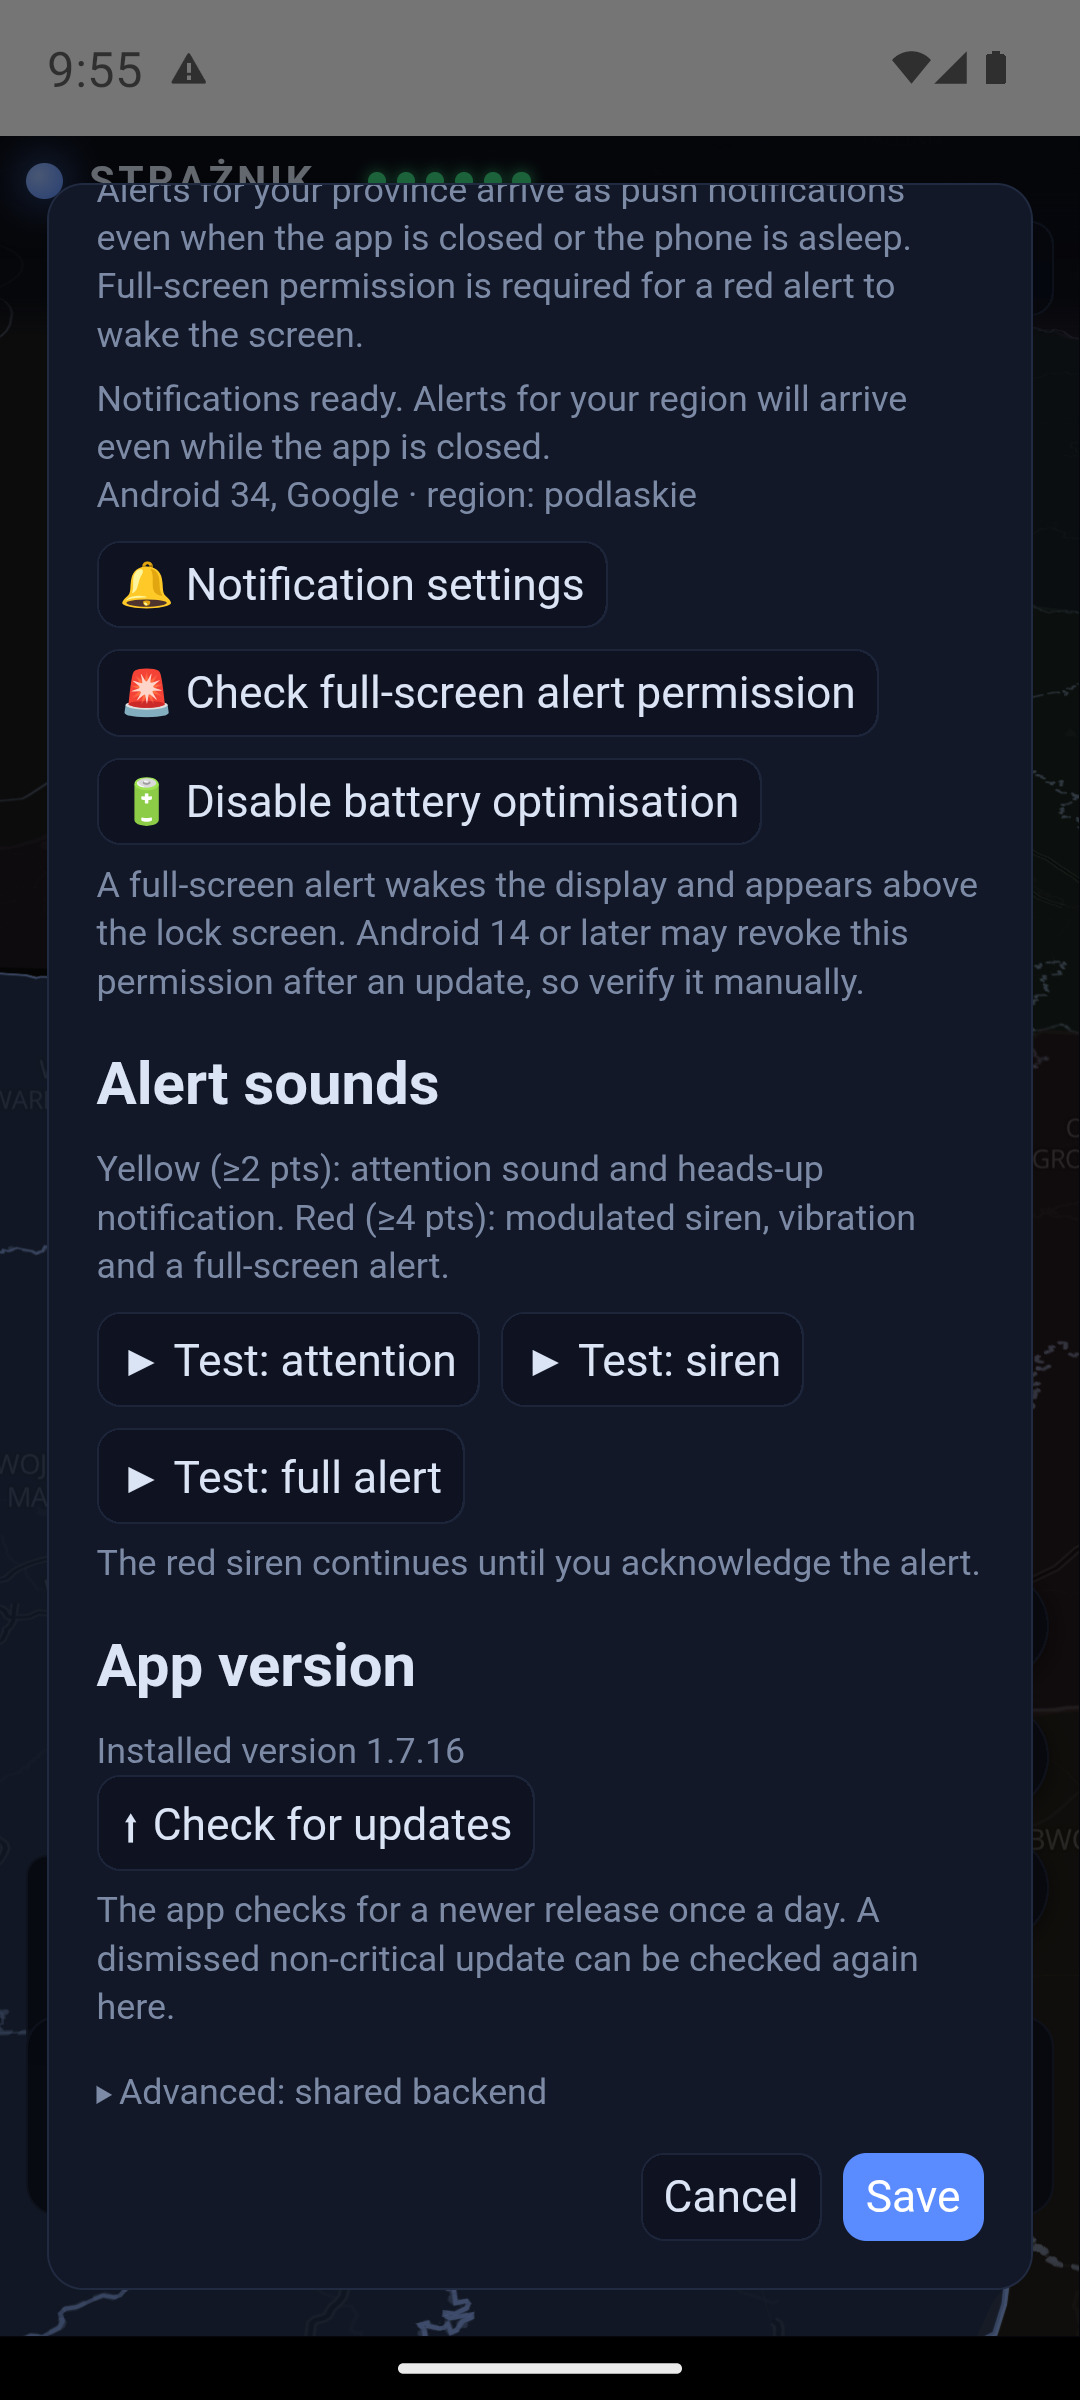
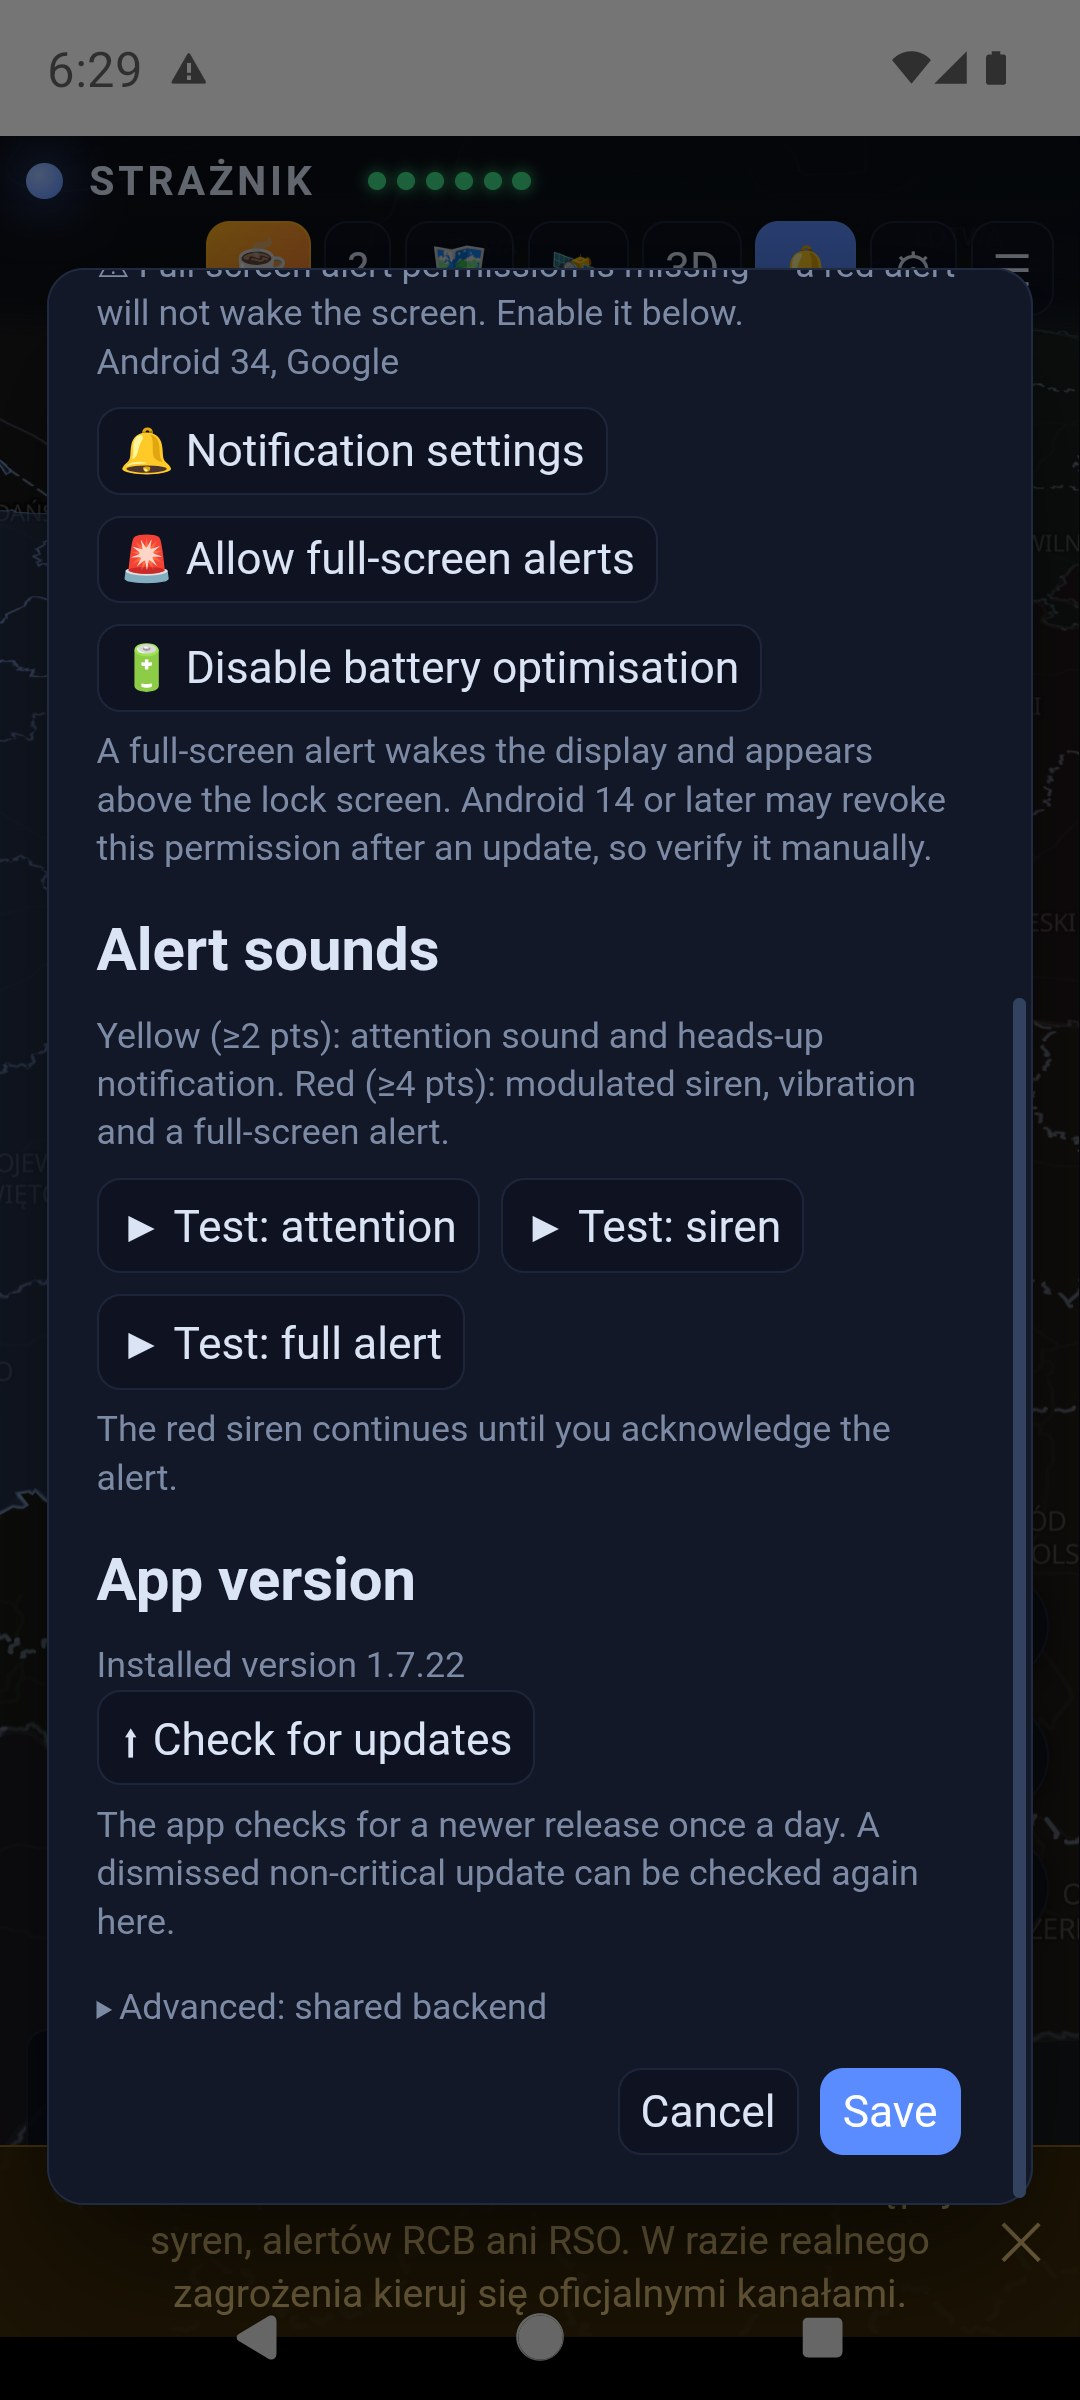
Refresh update-window screenshots for 1.7.22
Zrzuty updates-pl/en zrobione na Pixelu 7 (Android 14) na podpisanym wydaniu
1.7.22 zainstalowanym przez sam aktualizator aplikacji: 1.7.21 → 1.7.22, z
weryfikacją SHA-256 i skanem Play Protect („This app looks safe”).

Pokazują naprawione okno: ograniczona wysokość i przewijanie do przycisków —
w 1.7.21 dłuższa treść była ucinana bez możliwości przewinięcia.

diff --git a/docs/index.html b/docs/index.html
@@ -64,7 +64,7 @@
       <p>Przy zwykłej, niekrytycznej aktualizacji wybierz <kbd>Później</kbd>, aby zamknąć komunikat na bieżącą sesję. Gdy wybierzesz instalację, aplikacja pobierze APK i sprawdzi jego SHA-256, a Android poprosi o zatwierdzenie. Aktualizacja nadal wymaga pobrania pliku; nie musisz jednak szukać go ręcznie.</p>
       <p>Instaluj nowe wydanie na istniejące, bez odinstalowywania — zachowasz ustawienia. Publikowany plik jest podpisanym wydaniem <b>release</b>. Po aktualizacji sprawdź zgody na powiadomienia i pełny ekran.</p>
     </div>
-    <figure><a class="shot-link" href="screens/updates-pl.jpg"><img loading="lazy" src="screens/updates-pl.jpg" width="1080" height="2400" alt="Ustawienia wersji 1.7.16: testy dźwięków i Sprawdź aktualizacje"></a><figcaption>Numer zainstalowanej wersji i ręczne sprawdzanie aktualizacji.</figcaption></figure>
+    <figure><a class="shot-link" href="screens/updates-pl.jpg"><img loading="lazy" src="screens/updates-pl.jpg" width="1080" height="2400" alt="Ustawienia 1.7.22 na Pixelu 7: testy dźwięków, wersja aplikacji i Sprawdź aktualizacje, okno przewijane do przycisków"></a><figcaption><b>Ustawienia w 1.7.22.</b> Okno ma ograniczoną wysokość i przewija się do końca — wcześniej dłuższa treść bywała ucinana. Widać numer zainstalowanej wersji i ręczne sprawdzanie aktualizacji.</figcaption></figure>
   </div>
 </section>
 <section id="konfiguracja">

diff --git a/docs/en.html b/docs/en.html
@@ -64,7 +64,7 @@
       <p>For a normal, non-critical update, choose <kbd>Later</kbd> (the updater may display <kbd>Później</kbd>) to dismiss it for the current session. If you choose to install, the app downloads the APK and checks its SHA-256, then Android asks you to confirm installation. Updating still downloads a file; you no longer need to find it manually.</p>
       <p>Install over the existing app without uninstalling to keep your settings. The published APK is a signed <b>release build</b>. Check notification and full-screen permissions after updating.</p>
     </div>
-    <figure><a class="shot-link" href="screens/updates-en.jpg"><img loading="lazy" src="screens/updates-en.jpg" width="1080" height="2400" alt="Version 1.7.16 settings showing sound tests and Check for updates"></a><figcaption>The installed version and the manual update check.</figcaption></figure>
+    <figure><a class="shot-link" href="screens/updates-en.jpg"><img loading="lazy" src="screens/updates-en.jpg" width="1080" height="2400" alt="Strażnik 1.7.22 settings on Pixel 7: sound tests, app version and Check for updates, dialog scrolled to its buttons"></a><figcaption><b>Settings in 1.7.22.</b> The dialog is height-limited and scrolls all the way to its buttons — longer content used to be cut off. It shows the installed version and the manual update check.</figcaption></figure>
   </div>
 </section>
 <section id="konfiguracja">
